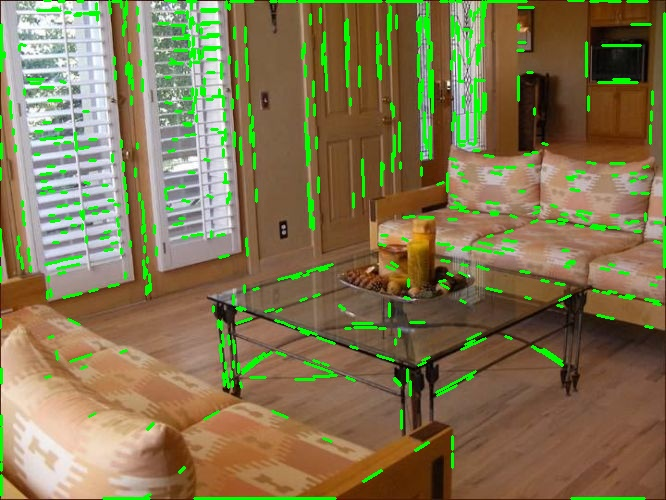
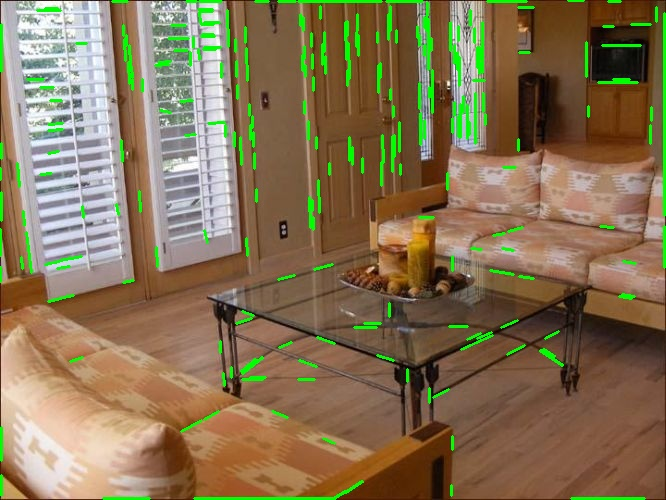
Added the intersection of lines data

diff --git a/vanishing_points.py b/vanishing_points.py
@@ -1,16 +1,19 @@
 import numpy as np
 import cv2  
-import math 
+import math
+import sys 
 import matplotlib.pyplot as plt
 from PIL import Image
 from tempfile import TemporaryFile
+import pdb
+
 img = Image.open('groundtruth/Images/1-deer-valley-living-room6.jpg')
 img = np.asarray(img);
 edges = cv2.Canny(img,100,200);
 
 #img = np.asarray(img)
 #edges = np.asarray(edges)
-print np.shape(img)
+#print np.shape(img)
 
 #print im1.dtype; Check points in the code 
 #print im1.dtype; #check points in the code
@@ -19,20 +22,87 @@ img = cv2.imread('groundtruth/Images/1-deer-valley-living-room6.jpg')
 gray = cv2.cvtColor(img,cv2.COLOR_BGR2GRAY)
 edges = cv2.Canny(gray,50,150,apertureSize = 3)
 minLineLength = 100
-maxLineGap = 5
+maxLineGap = 10
 lines = cv2.HoughLinesP(edges,1,np.pi/180,100,minLineLength,maxLineGap)
 for x1,y1,x2,y2 in lines[0]:
     cv2.line(img,(x1,y1),(x2,y2),(0,255,0),2)
 
 cv2.imwrite('houghlines5.jpg',img)
-#print np.shape(lines[0])Check point for lines data type 
+print np.shape(lines[0])#Check point for lines data type 
 lines = lines.astype(float);
 #####################The part after this is only for testing ##########333
 line = lines[0];
-m1 = (line[0,3]-line[0,1])/(line[0,2]-line[0,0]);
-m2 = (line[1,3]-line[1,1])/(line[1,2]-line[1,0]);
+l = np.shape(line);
+length = [];
+maxlength  = 0 ; 
+for i in range(l[0]):
+	mod = math.sqrt((line[i,0]-line[i,2])**2 +(line[i,1]-line[i,3])**2);
+	length.append(mod);
+	if (mod > maxlength):
+		maxlength = mod ; 
+		i_arg  = i ;
+
+print max(length);
+print maxlength, i_arg;
+
+#m1 = (line[0,3]-line[0,1])/(line[0,2]-line[0,0]);
+#m2 = (line[1,3]-line[1,1])/(line[1,2]-line[1,0]);
 #print m1,m2 Another testing point 
-x_intersection =( line[1,1] - line[0,1])/(m1-m2) + x1;
-y_intersection =line[1,1] + m2*(x_intersection - line[1,0]);
-print x_intersection , y_intersection
+#x_intersection =( line[1,1] - line[0,1])/(m1-m2) + x1;
+#y_intersection =line[1,1] + m2*(x_intersection - line[1,0]);
+#print x_intersection , y_intersection
+intersection = [];
+intersection_valid = [];
+intersection_invalid= [];
+for i in range(l[0]):
+	for j in range(i,l[0]):
+		if (((line[j,2]-line[j,0])==0) & ((line[i,2]-line[i,0])==0)):
+			intersection.append([i,j,float("inf"),float("inf"),1]);
+			intersection_valid.append([i,j,float("inf"),float("inf"),1]);#line1,line2,x_intersection,y_interection,outlier(1(for outlier) or 0(inlier))
+		elif ((line[j,2]-line[j,0])==0):
+ 			m1 = (line[i,3]-line[i,1])/(line[i,2]-line[i,0]);
+ 			x_intersection = line[j,2];
+ 			y_intersection = m1*(line[j,2]-line[i,0])+line[i,1];
+ 			p1 = (x_intersection-line[j,0])*(x_intersection-line[j,2]) + (y_intersection-line[j,1])*(y_intersection-line[j,3]);
+ 			p2 = (x_intersection-line[i,0])*(x_intersection-line[i,2]) + (y_intersection-line[i,1])*(y_intersection-line[i,3]);
+ 			if (p1 > 0 and p2 > 0):
+ 				intersection.append([i,j,x_intersection,y_intersection,1]);
+ 				intersection_valid.append([i,j,x_intersection,y_intersection,1]);
+ 			else :
+ 				intersection.append([i,j,x_intersection,y_intersection,0]);
+ 				intersection_invalid.append([i,j,x_intersection,y_intersection,0]);
+
+ 		elif ((line[i,2]-line[i,0])==0):
+			m2 = (line[j,3]-line[j,1])/(line[j,2]-line[j,0]);
+			x_intersection = line[i,2];
+			y_intersection = m2*(line[i,2]-line[j,0])+line[j,1];
+			p1 = (x_intersection-line[j,0])*(x_intersection-line[j,2]) + (y_intersection-line[j,1])*(y_intersection-line[j,3]);
+ 			p2 = (x_intersection-line[i,0])*(x_intersection-line[i,2]) + (y_intersection-line[i,1])*(y_intersection-line[i,3]);
+ 			if (p1 > 0 and p2 > 0):
+ 				intersection.append([i,j,x_intersection,y_intersection,1]);
+ 				intersection_valid.append([i,j,x_intersection,y_intersection,1]);
+ 			else :
+ 				intersection.append([i,j,x_intersection,y_intersection,0]);
+ 				intersection_invalid.append([i,j,x_intersection,y_intersection,0]);
+		else : 
+			m2 = (line[j,3]-line[j,1])/(line[j,2]-line[j,0]);
+			m1 = (line[i,3]-line[i,1])/(line[i,2]-line[i,0]);
+			if (m1 == m2):
+				 #print "intersection does not exist"
+        		 intersection.append([i,j,float("inf"),float("inf"),1]);
+        		 intersection_valid.append([i,j,float("inf"),float("inf"),1]);
+
+			else :
+				x_intersection =(( line[j,1] - line[i,1]) +(m1*line[i,0]-m2*line[j,0]))/(m1-m2);
+				y_intersection =line[j,1] + m2*(x_intersection - line[j,0]);
+				p1 = (x_intersection-line[j,0])*(x_intersection-line[j,2]) + (y_intersection-line[j,1])*(y_intersection-line[j,3]);
+ 				p2 = (x_intersection-line[i,0])*(x_intersection-line[i,2]) + (y_intersection-line[i,1])*(y_intersection-line[i,3]);
+ 				if (p1 > 0 and p2 > 0):
+ 					intersection.append([i,j,x_intersection,y_intersection,1]);
+ 					intersection_valid.append([i,j,x_intersection,y_intersection,1]);
+ 				else :
+ 					intersection.append([i,j,x_intersection,y_intersection,0]);
+ 					intersection_invalid.append([i,j,x_intersection,y_intersection,0]);
+
+
 
